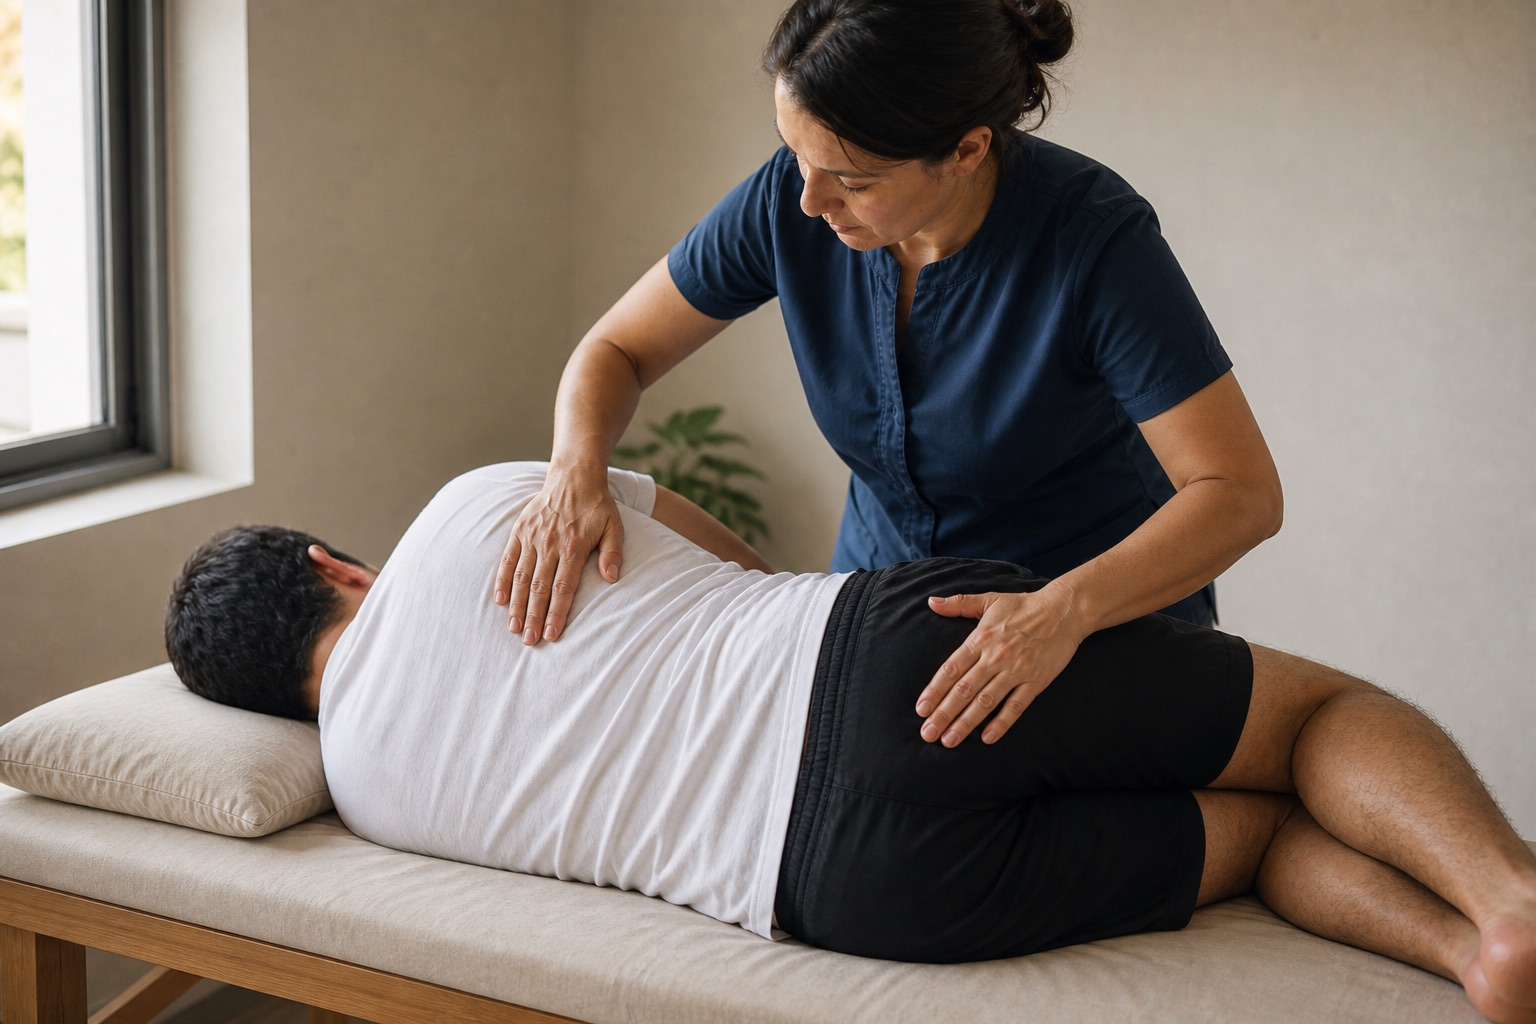
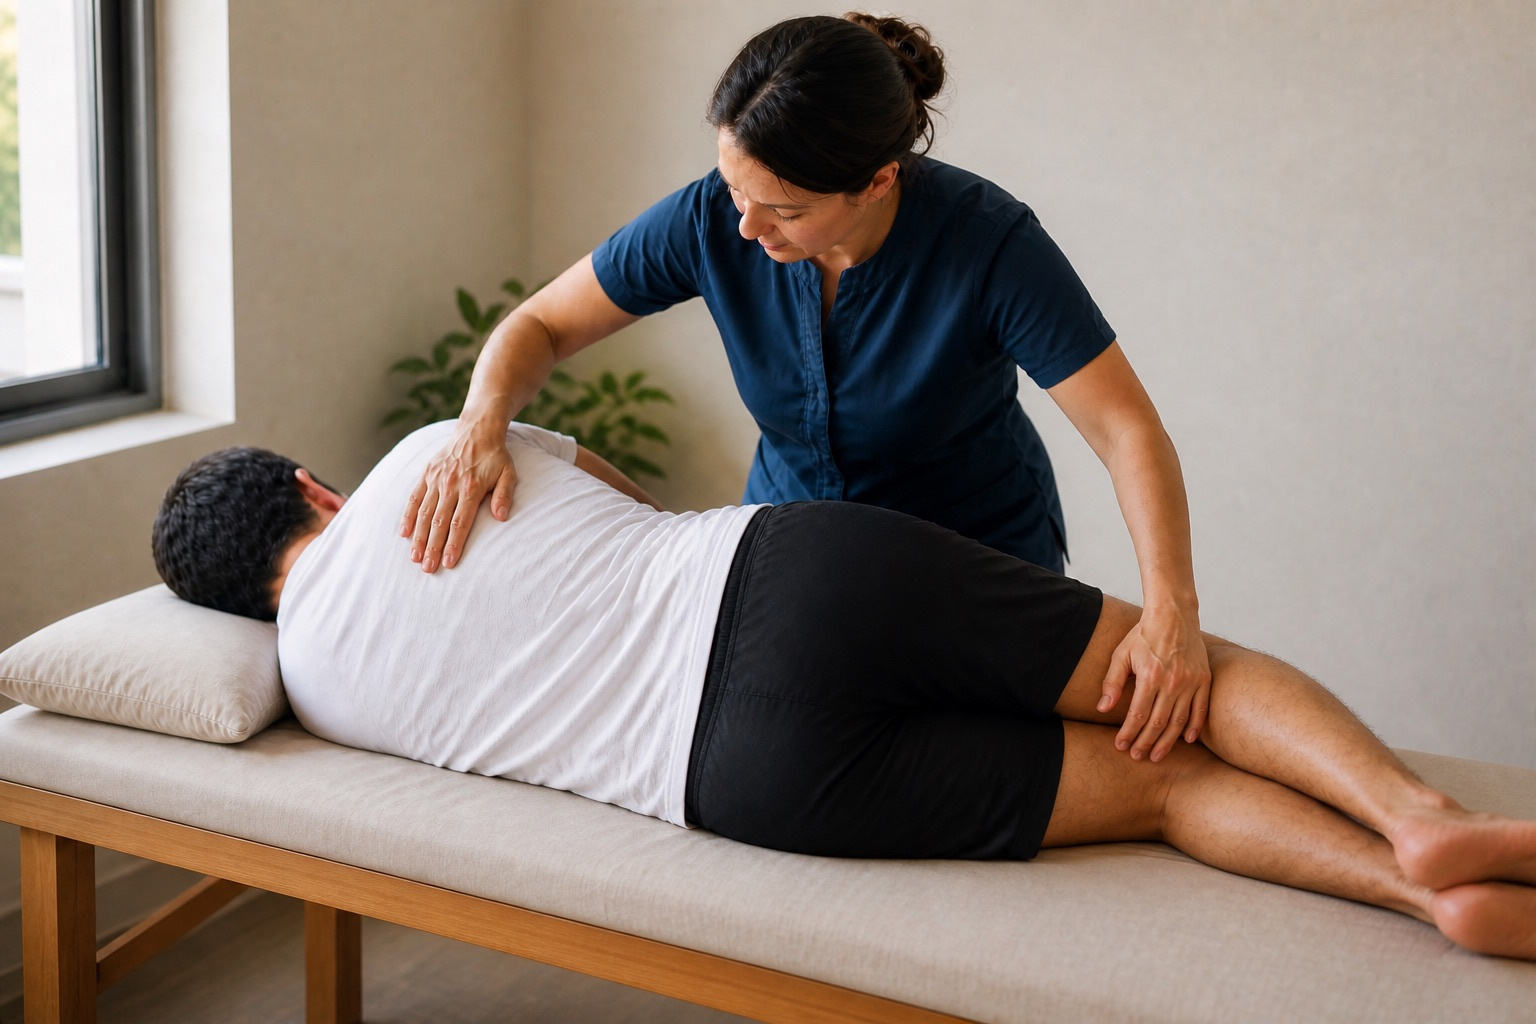
Publish the side-lying osteopathy photo and give it a new cache-bust query.

diff --git a/osteopatia.html b/osteopatia.html
@@ -469,7 +469,7 @@
             <p class="lead">Es un método de evaluación y tratamiento de las disfunciones somáticas y de los síntomas que produce.</p>
           </div>
           <figure class="method-figure">
-            <img src="images/osteopatia.webp?v=1787650907" alt="Osteopatía estructural y visceral" width="1536" height="1024" decoding="async" fetchpriority="high" />
+            <img src="images/osteopatia.webp?v=1787651178" alt="Osteopatía estructural y visceral" width="1536" height="1024" decoding="async" fetchpriority="high" />
           </figure>
           <div class="method-page-body">
             <p>Relaciona los síntomas con la falta de movilidad de los tejidos del cuerpo (músculo, vísceras y tejido conectivo). Hay diversas técnicas de tratamiento según la característica de los tejidos a tratar.</p>

diff --git a/en/osteopatia.html b/en/osteopatia.html
@@ -469,7 +469,7 @@
             <p class="lead">Osteopathy is a method of evaluating and treating somatic dysfunctions and their associated symptoms.</p>
           </div>
           <figure class="method-figure">
-            <img src="../images/osteopatia.webp?v=1787650907" alt="Structural and visceral osteopathy" width="1536" height="1024" decoding="async" fetchpriority="high" />
+            <img src="../images/osteopatia.webp?v=1787651178" alt="Structural and visceral osteopathy" width="1536" height="1024" decoding="async" fetchpriority="high" />
           </figure>
           <div class="method-page-body">
             <p>It links symptoms to restricted mobility in the body's tissues (muscles, viscera, and connective tissue). Various treatment techniques are used depending on the characteristics of the tissues involved.</p>

diff --git a/fr/osteopatia.html b/fr/osteopatia.html
@@ -469,7 +469,7 @@
             <p class="lead">L'ostéopathie est une méthode d'évaluation et de traitement des dysfonctions somatiques et de leurs symptômes.</p>
           </div>
           <figure class="method-figure">
-            <img src="../images/osteopatia.webp?v=1787650907" alt="Ostéopathie structurelle et viscérale" width="1536" height="1024" decoding="async" fetchpriority="high" />
+            <img src="../images/osteopatia.webp?v=1787651178" alt="Ostéopathie structurelle et viscérale" width="1536" height="1024" decoding="async" fetchpriority="high" />
           </figure>
           <div class="method-page-body">
             <p>Elle relie les symptômes à une mobilité réduite des tissus (muscles, viscères, tissu conjonctif). Les techniques varient selon les tissus concernés.</p>

diff --git a/pt/osteopatia.html b/pt/osteopatia.html
@@ -465,7 +465,7 @@
             <p class="lead">A osteopatia é um método de avaliação e tratamento de disfunções somáticas e seus sintomas.</p>
           </div>
           <figure class="method-figure">
-            <img src="../images/osteopatia.webp?v=1787650907" alt="Osteopatia estrutural e visceral" width="1536" height="1024" decoding="async" fetchpriority="high" />
+            <img src="../images/osteopatia.webp?v=1787651178" alt="Osteopatia estrutural e visceral" width="1536" height="1024" decoding="async" fetchpriority="high" />
           </figure>
           <div class="method-page-body">
             <p>Relaciona os sintomas à falta de mobilidade dos tecidos (músculos, vísceras, tecido conjuntivo). As técnicas variam conforme os tecidos envolvidos.</p>

diff --git a/fr/index.html b/fr/index.html
@@ -513,7 +513,7 @@
           <div class="col-lg-4 col-md-4 col-sm-12 col-xs-12">
             <div class="service-block">
               <div class="service-img mb20">
-                <a href="/fr/osteopatia.html"><img src="../images/osteopatia.webp?v=1787650907" title="Ostéopathie"
+                <a href="/fr/osteopatia.html"><img src="../images/osteopatia.webp?v=1787651178" title="Ostéopathie"
                     alt="Traitement d'ostéopathie manuelle" class="img-responsive" loading="lazy" /></a>
               </div>
               <div class="service-content">

diff --git a/pt/index.html b/pt/index.html
@@ -509,7 +509,7 @@
           <div class="col-lg-4 col-md-4 col-sm-12 col-xs-12">
             <div class="service-block">
               <div class="service-img mb20">
-                <a href="/pt/osteopatia.html"><img src="../images/osteopatia.webp?v=1787650907" title="Osteopatia"
+                <a href="/pt/osteopatia.html"><img src="../images/osteopatia.webp?v=1787651178" title="Osteopatia"
                     alt="Tratamento de osteopatia manual" class="img-responsive" loading="lazy" /></a>
               </div>
               <div class="service-content">

diff --git a/en/index.html b/en/index.html
@@ -514,7 +514,7 @@
           <div class="col-lg-4 col-md-4 col-sm-12 col-xs-12">
             <div class="service-block">
               <div class="service-img mb20">
-                <a href="/en/osteopatia.html"><img src="../images/osteopatia.webp?v=1787650907" title="Osteopathy"
+                <a href="/en/osteopatia.html"><img src="../images/osteopatia.webp?v=1787651178" title="Osteopathy"
                     alt="Manual Osteopathy treatment" class="img-responsive" loading="lazy" /></a>
               </div>
               <div class="service-content">

diff --git a/index.html b/index.html
@@ -514,7 +514,7 @@
           <div class="col-lg-4 col-md-4 col-sm-12 col-xs-12">
             <div class="service-block">
               <div class="service-img mb20">
-                <a href="/osteopatia.html"><img src="images/osteopatia.webp?v=1787650907" title="osteopatía"
+                <a href="/osteopatia.html"><img src="images/osteopatia.webp?v=1787651178" title="osteopatía"
                     alt="Tratamiento de Osteopatía manual" class="img-responsive" loading="lazy" /></a>
               </div>
               <div class="service-content">
